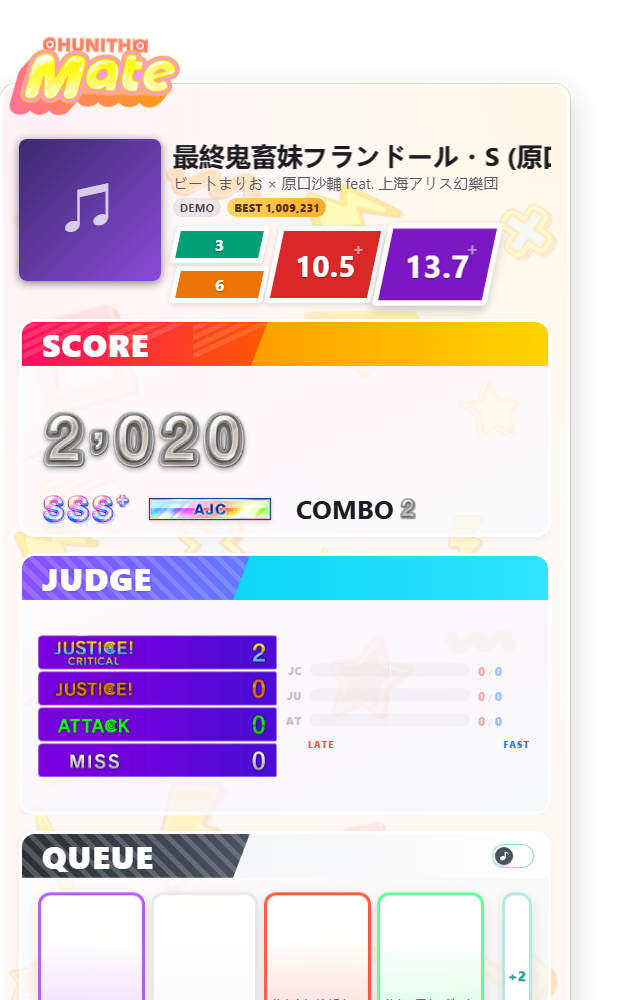
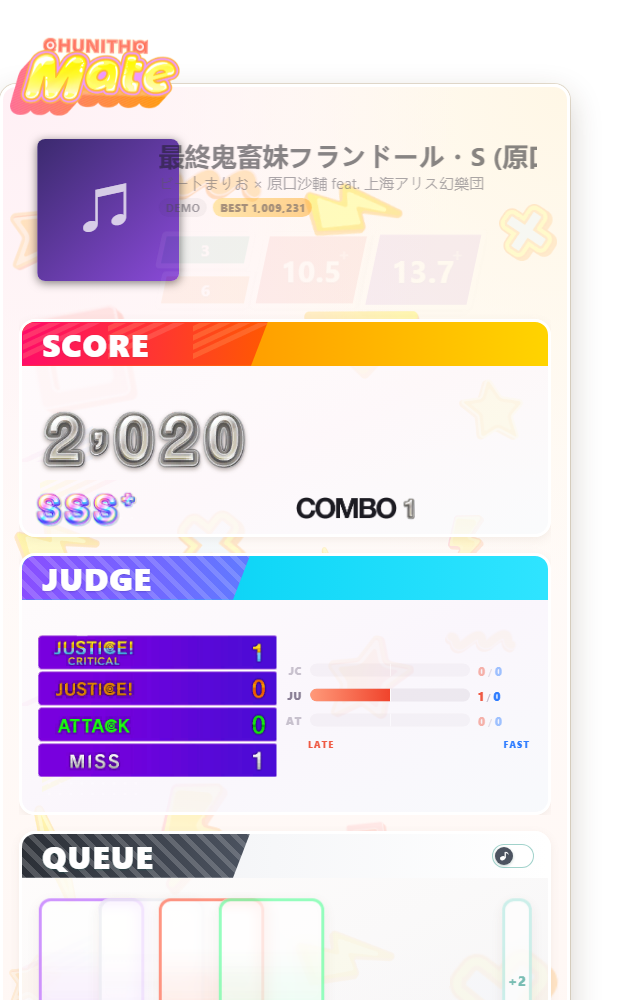
feat(ui): COMBO 标签改用 CHU_UI_Select_optionbox 的官方字形
- 从图集按 alpha 边界裁出 COMBO 字形（215x47，四周留 1px）
- 用遮罩染色，跟随界面文字色；加载失败时回退到普通文字
- 宽度固定 101px，COMBO 后的连击数字不会位移

diff --git a/web/index.html b/web/index.html
@@ -1472,6 +1472,14 @@
   html.skin-game #maxcombo { color: #8b8691; font-size: 18px; }
   /* 待机（没有曲目）时：不显示空的 SCORE / JUDGE 卡片 */
   html.skin-game #panel.standby .playonly { display: none; }
+  /* COMBO 标签：直接使用游戏图集里的 COMBO 字形（遮罩染成文字色） */
+  html.skin-game .cmlbl {
+    display: inline-block; width: 101px; height: 22px;
+    background: currentColor;
+    -webkit-mask: var(--cw, none) no-repeat center / contain;
+    mask: var(--cw, none) no-repeat center / contain;
+  }
+  html.skin-game .cmlbl.glyph { color: #1c1b22; }
 </style>
 </head>
 <body>
@@ -1681,6 +1689,17 @@
 
     fetch('judge_digits.json').then(function (r) { return r.json(); })
       .then(function (j) { JD = j; }).catch(function () {});
+    // COMBO 标签：CHU_UI_Select_optionbox 里的官方字形
+    fetch('combo_word.json').then(function (r) { return r.json(); })
+      .then(function (j) {
+        window.COMBO_WORD = j;
+        var el = document.getElementById('cmlbl');
+        if (el && j && j.m) {
+          el.style.setProperty('--cw', 'url(' + j.m + ')');
+          el.textContent = '';
+          el.classList.add('glyph');
+        }
+      }).catch(function () {});
     fetch('score_digits.json').then(function (r) { return r.json(); })
       .then(function (j) { SCORE_D = j.chars; }).catch(function () {});
     // 评级字母（CHU_UI_Result_Rank_00 原素材）
